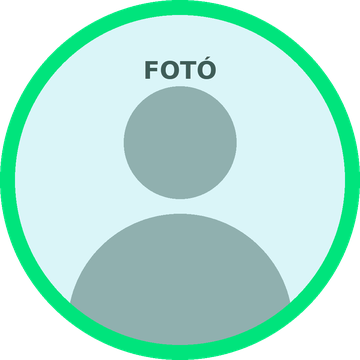
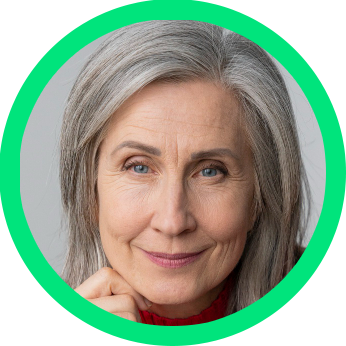
changes1

diff --git a/index.html b/index.html
@@ -94,7 +94,7 @@ a{color:#00807d;}
   <div style="height:18px;line-height:18px;font-size:1px;">&nbsp;</div>
   <div class="headline" style="font-family:'BoehringerForwardHead',Arial,Helvetica,sans-serif;font-size:33px;line-height:38px;font-weight:bold;color:#00e47c;">Az SGLT2-gátlók alkalmazása a háziorvosi gyakorlatban</div>
   <div style="height:12px;line-height:12px;font-size:1px;">&nbsp;</div>
-  <div style="font-family:'BoehringerForwardHead',Arial,Helvetica,sans-serif;font-size:20px;line-height:26px;font-weight:bold;color:#ffffff;">Gyakorlati esetek a cardiorenalis védelem szolgálatában</div>
+  <div style="font-family:'BoehringerForwardHead',Arial,Helvetica,sans-serif;font-size:20px;line-height:26px;font-weight:bold;color:#ffffff;">Gyakorlati esetek a kardiorenális védelem szolgálatában</div>
   <div style="height:8px;line-height:8px;font-size:1px;">&nbsp;</div>
   <div style="font-family:'BoehringerForwardHead',Arial,Helvetica,sans-serif;font-size:13px;line-height:19px;color:#a9c3ba;">– a Boehringer Ingelheim támogatásával</div>
   <div style="height:20px;line-height:20px;font-size:1px;">&nbsp;</div>
@@ -511,9 +511,9 @@ a{color:#00807d;}
   <table role="presentation" width="100%" cellpadding="0" cellspacing="0" border="0"><tr>
     <td class="stack stack-gap" width="96" valign="top" style="width:96px;padding-right:18px;"><img src="images/ph-szerzo-foto.png" width="84" height="84" alt="Móczár Csaba dr." style="display:block;width:84px;height:84px;border:0;border-radius:50%;outline:none;text-decoration:none;"></td>
     <td class="stack" valign="top">
-      <div class="force-light-muted" style="font-family:'BoehringerForwardHead',Arial,Helvetica,sans-serif;font-size:14px;line-height:21px;color:#4b5f59;">Hírlevelünk dr. Móczár Csaba: <i>Mire figyeljünk az SGLT2-gátlók és a GLP-receptor-antagonisták felírásával kapcsolatban</i> című cikke alapján készült.</div>
+      <div class="force-light-muted" style="font-family:'BoehringerForwardHead',Arial,Helvetica,sans-serif;font-size:14px;line-height:21px;color:#4b5f59;">Hírlevelünk Dr. Móczár Csaba: <i>Mire figyeljünk az SGLT2-gátlók és a GLP-receptor-antagonisták felírásával kapcsolatban</i> című cikke alapján készült.</div>
       <div style="height:10px;line-height:10px;font-size:1px;">&nbsp;</div>
-      <div class="force-light-text" style="font-family:'BoehringerForwardHead',Arial,Helvetica,sans-serif;font-size:16px;line-height:21px;font-weight:bold;color:#08312a;">Móczár Csaba dr.</div>
+      <div class="force-light-text" style="font-family:'BoehringerForwardHead',Arial,Helvetica,sans-serif;font-size:16px;line-height:21px;font-weight:bold;color:#08312a;">Dr. Móczár Csaba</div>
       <div class="force-light-muted" style="font-family:'BoehringerForwardHead',Arial,Helvetica,sans-serif;font-size:12.5px;line-height:18px;color:#4b5f59;">Irinyi Rendelő, Felnőtt háziorvosi rendelő, Kecskemét<br>Irinyi Rendelő, Diabetológiai szakrendelő, Kecskemét<br>Semmelweis Egyetem, ÁOK, Családorvosi Tanszék, Budapest</div>
     </td>
   </tr></table>
@@ -529,11 +529,11 @@ a{color:#00807d;}
 <!--[if !mso]><!-->
 <table role="presentation" cellpadding="0" cellspacing="0" border="0" align="center"><tr>
 <td bgcolor="#00e47c" align="center" valign="middle" style="background-color:#00e47c;border-radius:10px;padding:15px 30px;">
-<a href="#CIKK_URL" target="_blank" style="display:inline-block;font-family:'BoehringerForwardArabicVar',Arial,Helvetica,sans-serif;font-size:20px;line-height:24px;color:#08312a;text-decoration:none;white-space:nowrap;">Olvassa el a teljes cikket</a>
+<a href="https://mdprevencio.olo.hu/cikkek/mire-figyeljunk-az-sglt2-gatlok-es-a-glp-receptor-antagonistak-felirasaval-kapcsolatban-previ" target="_blank" style="display:inline-block;font-family:'BoehringerForwardArabicVar',Arial,Helvetica,sans-serif;font-size:20px;line-height:24px;color:#08312a;text-decoration:none;white-space:nowrap;">Olvassa el a teljes cikket</a>
 </td></tr></table>
 <!--<![endif]-->
 </td></tr>
-<tr><td align="center" class="force-light-muted" style="font-family:'BoehringerForwardHead',Arial,Helvetica,sans-serif;font-size:12.5px;line-height:18px;color:#4b5f59;padding-bottom:26px;">A teljes cikk <a href="#CIKK_URL" target="_blank" style="color:#00807d;text-decoration:underline;">ide kattintva</a> olvasható.</td></tr>
+<!-- <tr><td align="center" class="force-light-muted" style="font-family:'BoehringerForwardHead',Arial,Helvetica,sans-serif;font-size:12.5px;line-height:18px;color:#4b5f59;padding-bottom:26px;">A teljes cikk <a href="#CIKK_URL" target="_blank" style="color:#00807d;text-decoration:underline;">ide kattintva</a> olvasható.</td></tr> -->
 </table>
 </td></tr>
 <!-- ===== REFERENCIÁK ===== -->
